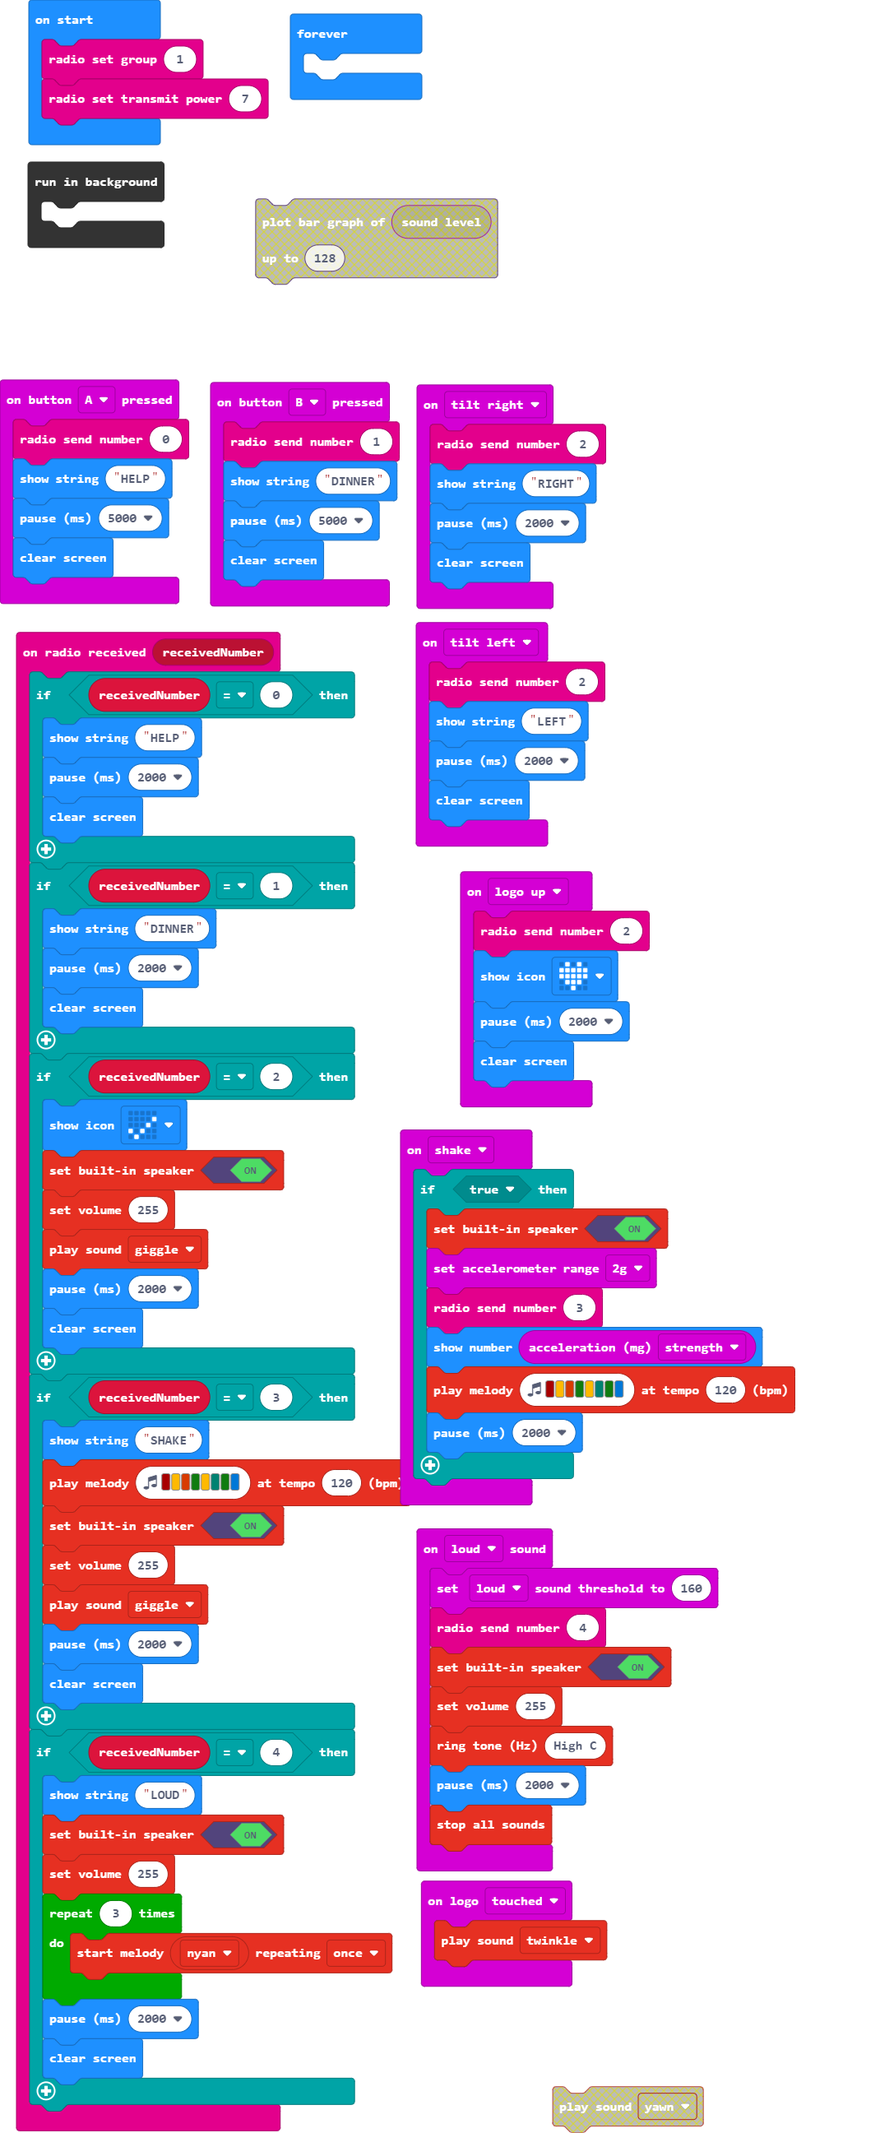
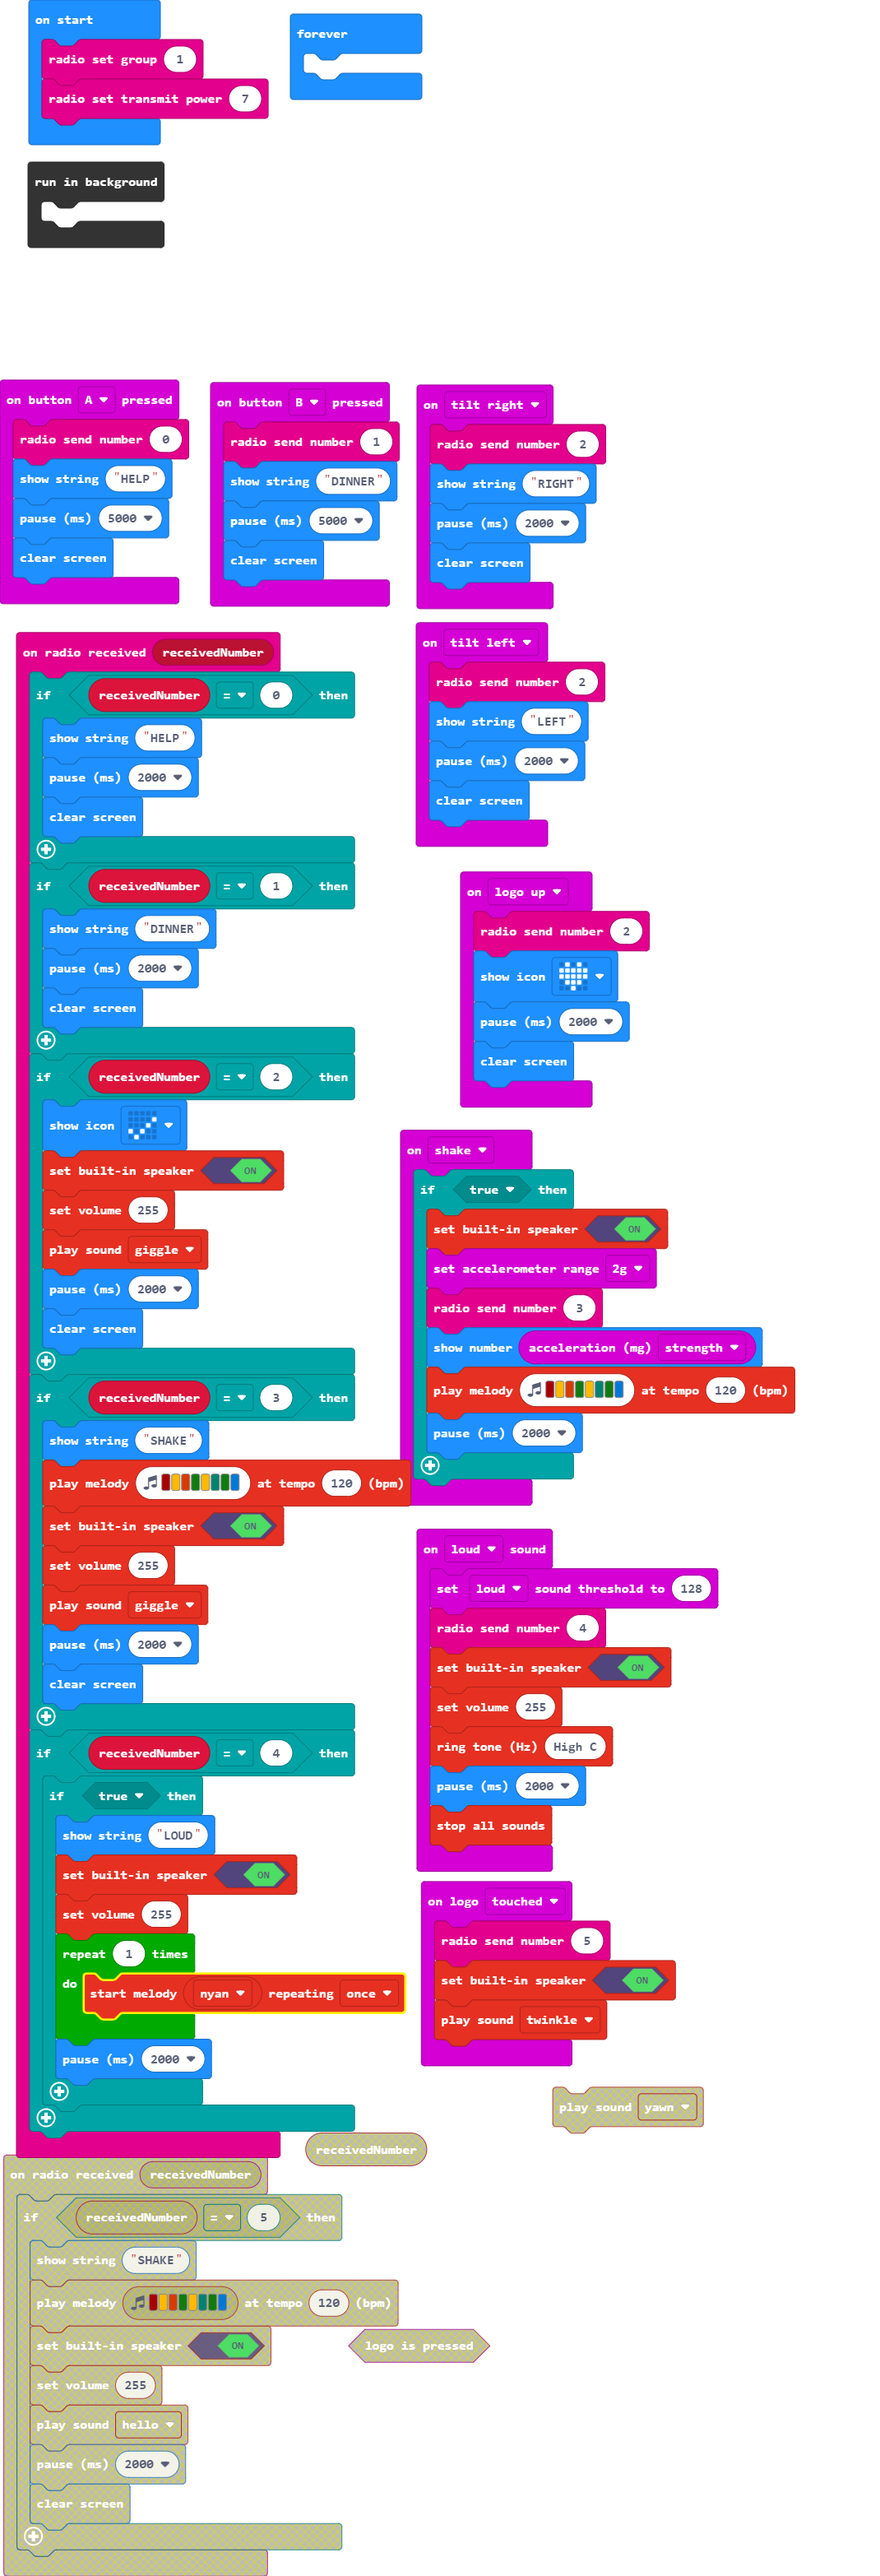
Update main.blocks, main.ts

diff --git a/main.ts b/main.ts
@@ -27,14 +27,15 @@ radio.onReceivedNumber(function (receivedNumber) {
         basic.clearScreen()
     }
     if (receivedNumber == 4) {
-        basic.showString("LOUD")
-        music.setBuiltInSpeakerEnabled(true)
-        music.setVolume(255)
-        for (let index = 0; index < 3; index++) {
-            music.startMelody(music.builtInMelody(Melodies.Nyan), MelodyOptions.Once)
+        if (true) {
+            basic.showString("LOUD")
+            music.setBuiltInSpeakerEnabled(true)
+            music.setVolume(255)
+            for (let index = 0; index < 1; index++) {
+                music.startMelody(music.builtInMelody(Melodies.Nyan), MelodyOptions.Once)
+            }
+            basic.pause(2000)
         }
-        basic.pause(2000)
-        basic.clearScreen()
     }
 })
 input.onButtonPressed(Button.A, function () {
@@ -56,7 +57,7 @@ input.onGesture(Gesture.TiltLeft, function () {
     basic.clearScreen()
 })
 input.onSound(DetectedSound.Loud, function () {
-    input.setSoundThreshold(SoundThreshold.Loud, 160)
+    input.setSoundThreshold(SoundThreshold.Loud, 128)
     radio.sendNumber(4)
     music.setBuiltInSpeakerEnabled(true)
     music.setVolume(255)
@@ -87,6 +88,8 @@ input.onGesture(Gesture.TiltRight, function () {
     basic.clearScreen()
 })
 input.onLogoEvent(TouchButtonEvent.Touched, function () {
+    radio.sendNumber(5)
+    music.setBuiltInSpeakerEnabled(true)
     soundExpression.twinkle.play()
 })
 radio.setGroup(1)
